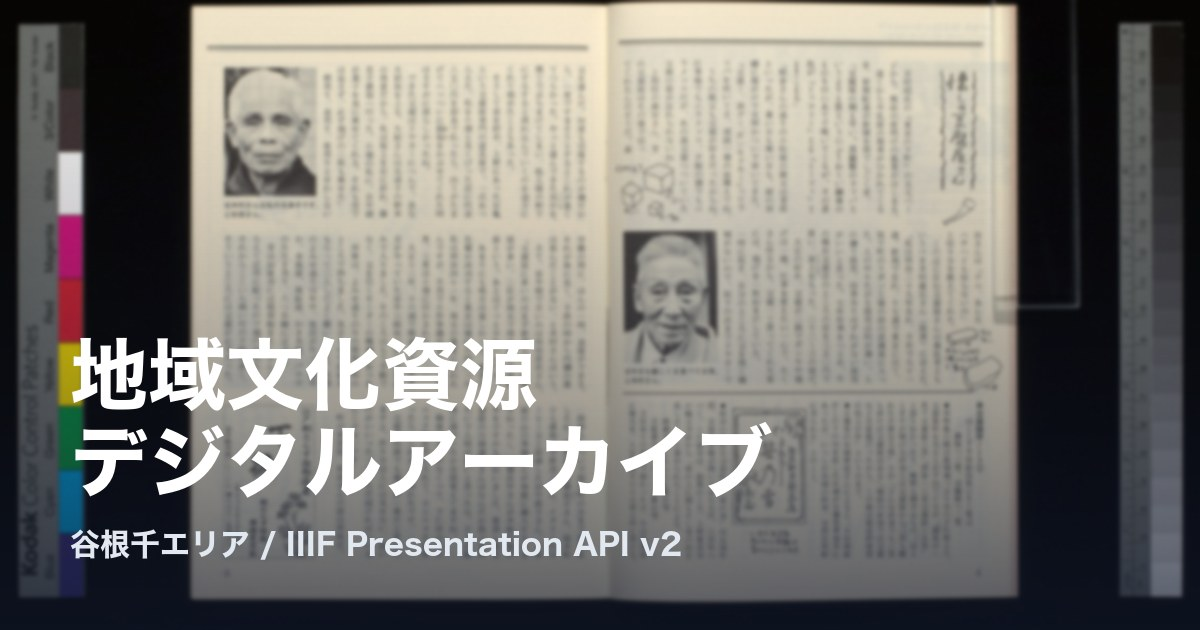
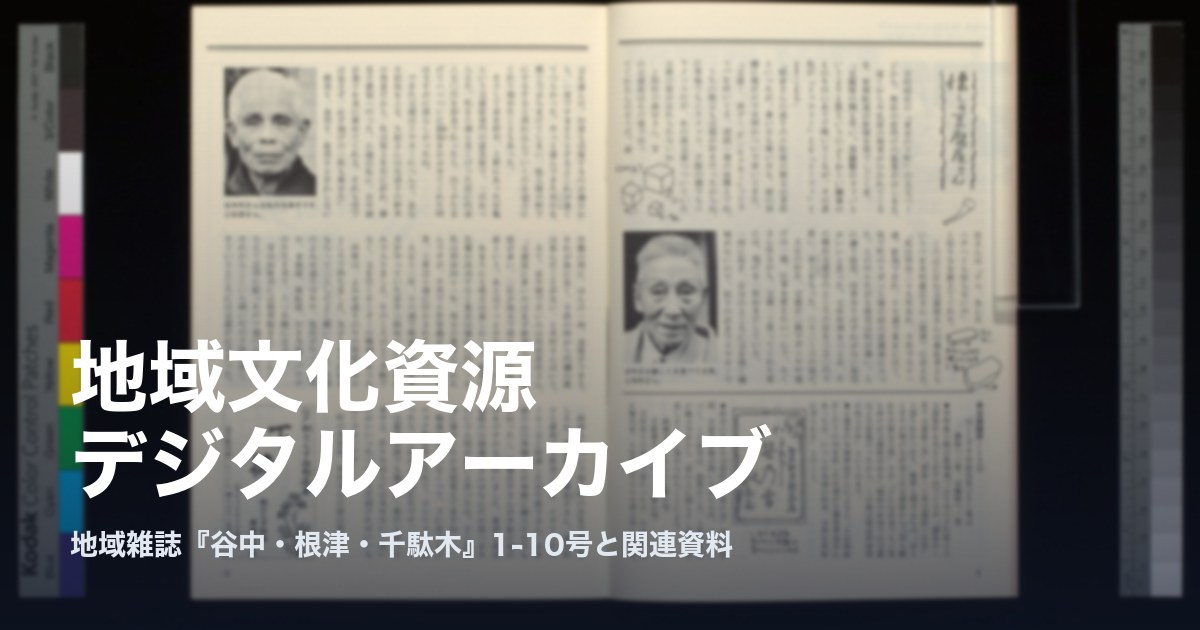
Align OGP image and README copy with the magazine framing
- Regenerate ogp.jpg subtitle from "谷根千エリア / IIIF Presentation API
  v2" to "地域雑誌『谷中・根津・千駄木』1-10号と関連資料", matching the
  index lede.
- Rewrite README intro to describe the actual subject matter (the
  谷根千 magazine, 1984 origin, 森まゆみ氏 cooperation), add links to
  the public site and project site, and add a Credits section. Drops
  the "IIIF Presentation API v2" jargon from the lead sentence.

diff --git a/README.md b/README.md
@@ -1,6 +1,9 @@
 # 地域文化資源デジタルアーカイブ
 
-谷根千エリアの地域文化資源を IIIF Presentation API v2 で公開するデジタルアーカイブ。
+1984年に谷根千工房が創刊した地域雑誌『谷中・根津・千駄木』1〜10号とその関連資料を、[地域文化資源デジタルアーカイブ・プロジェクト](https://tcha.jp/pts/lcrd/)の活動の一環として、谷根千工房・森まゆみ氏の協力のもとデジタルアーカイブ化したものです。画像・メタデータ・アノテーションをオープンに公開しています。
+
+- 公開サイト: <https://nakamura196.github.io/lda/>
+- プロジェクトサイト: <http://lda.tcha.jp/>
 
 ## エンドポイント
 
@@ -33,6 +36,12 @@ src/data/                   元データ
 ├── metadata.xlsx
 └── images.xlsx
 ```
+
+## クレジット
+
+- プロジェクト: [地域文化資源デジタルアーカイブ](https://tcha.jp/pts/lcrd/)
+- 協力: 谷根千工房 / 森 まゆみ 氏
+- 規格: [IIIF Presentation API 2.1](https://iiif.io/api/presentation/2.1/)
 
 ## ライセンス
 
